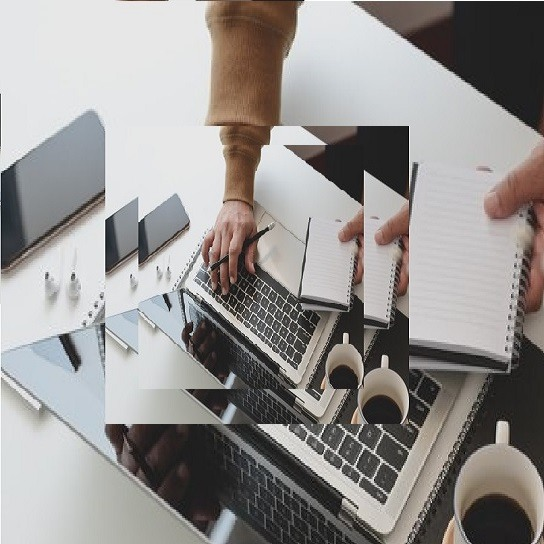
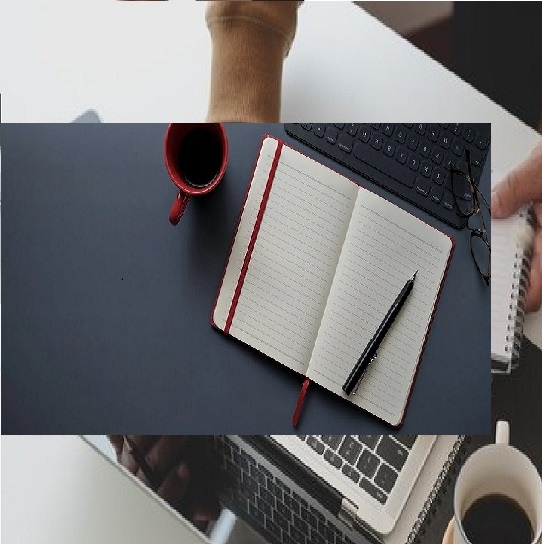
more updates

diff --git a/css/style3.css b/css/style3.css
@@ -265,7 +265,7 @@
     }
     
     .bg2{
-    background-image: url("../images/bgimage2.jpg");
+    background-image: url("../images/b2a.jpg");
     background-repeat: no-repeat;
     } 
   
